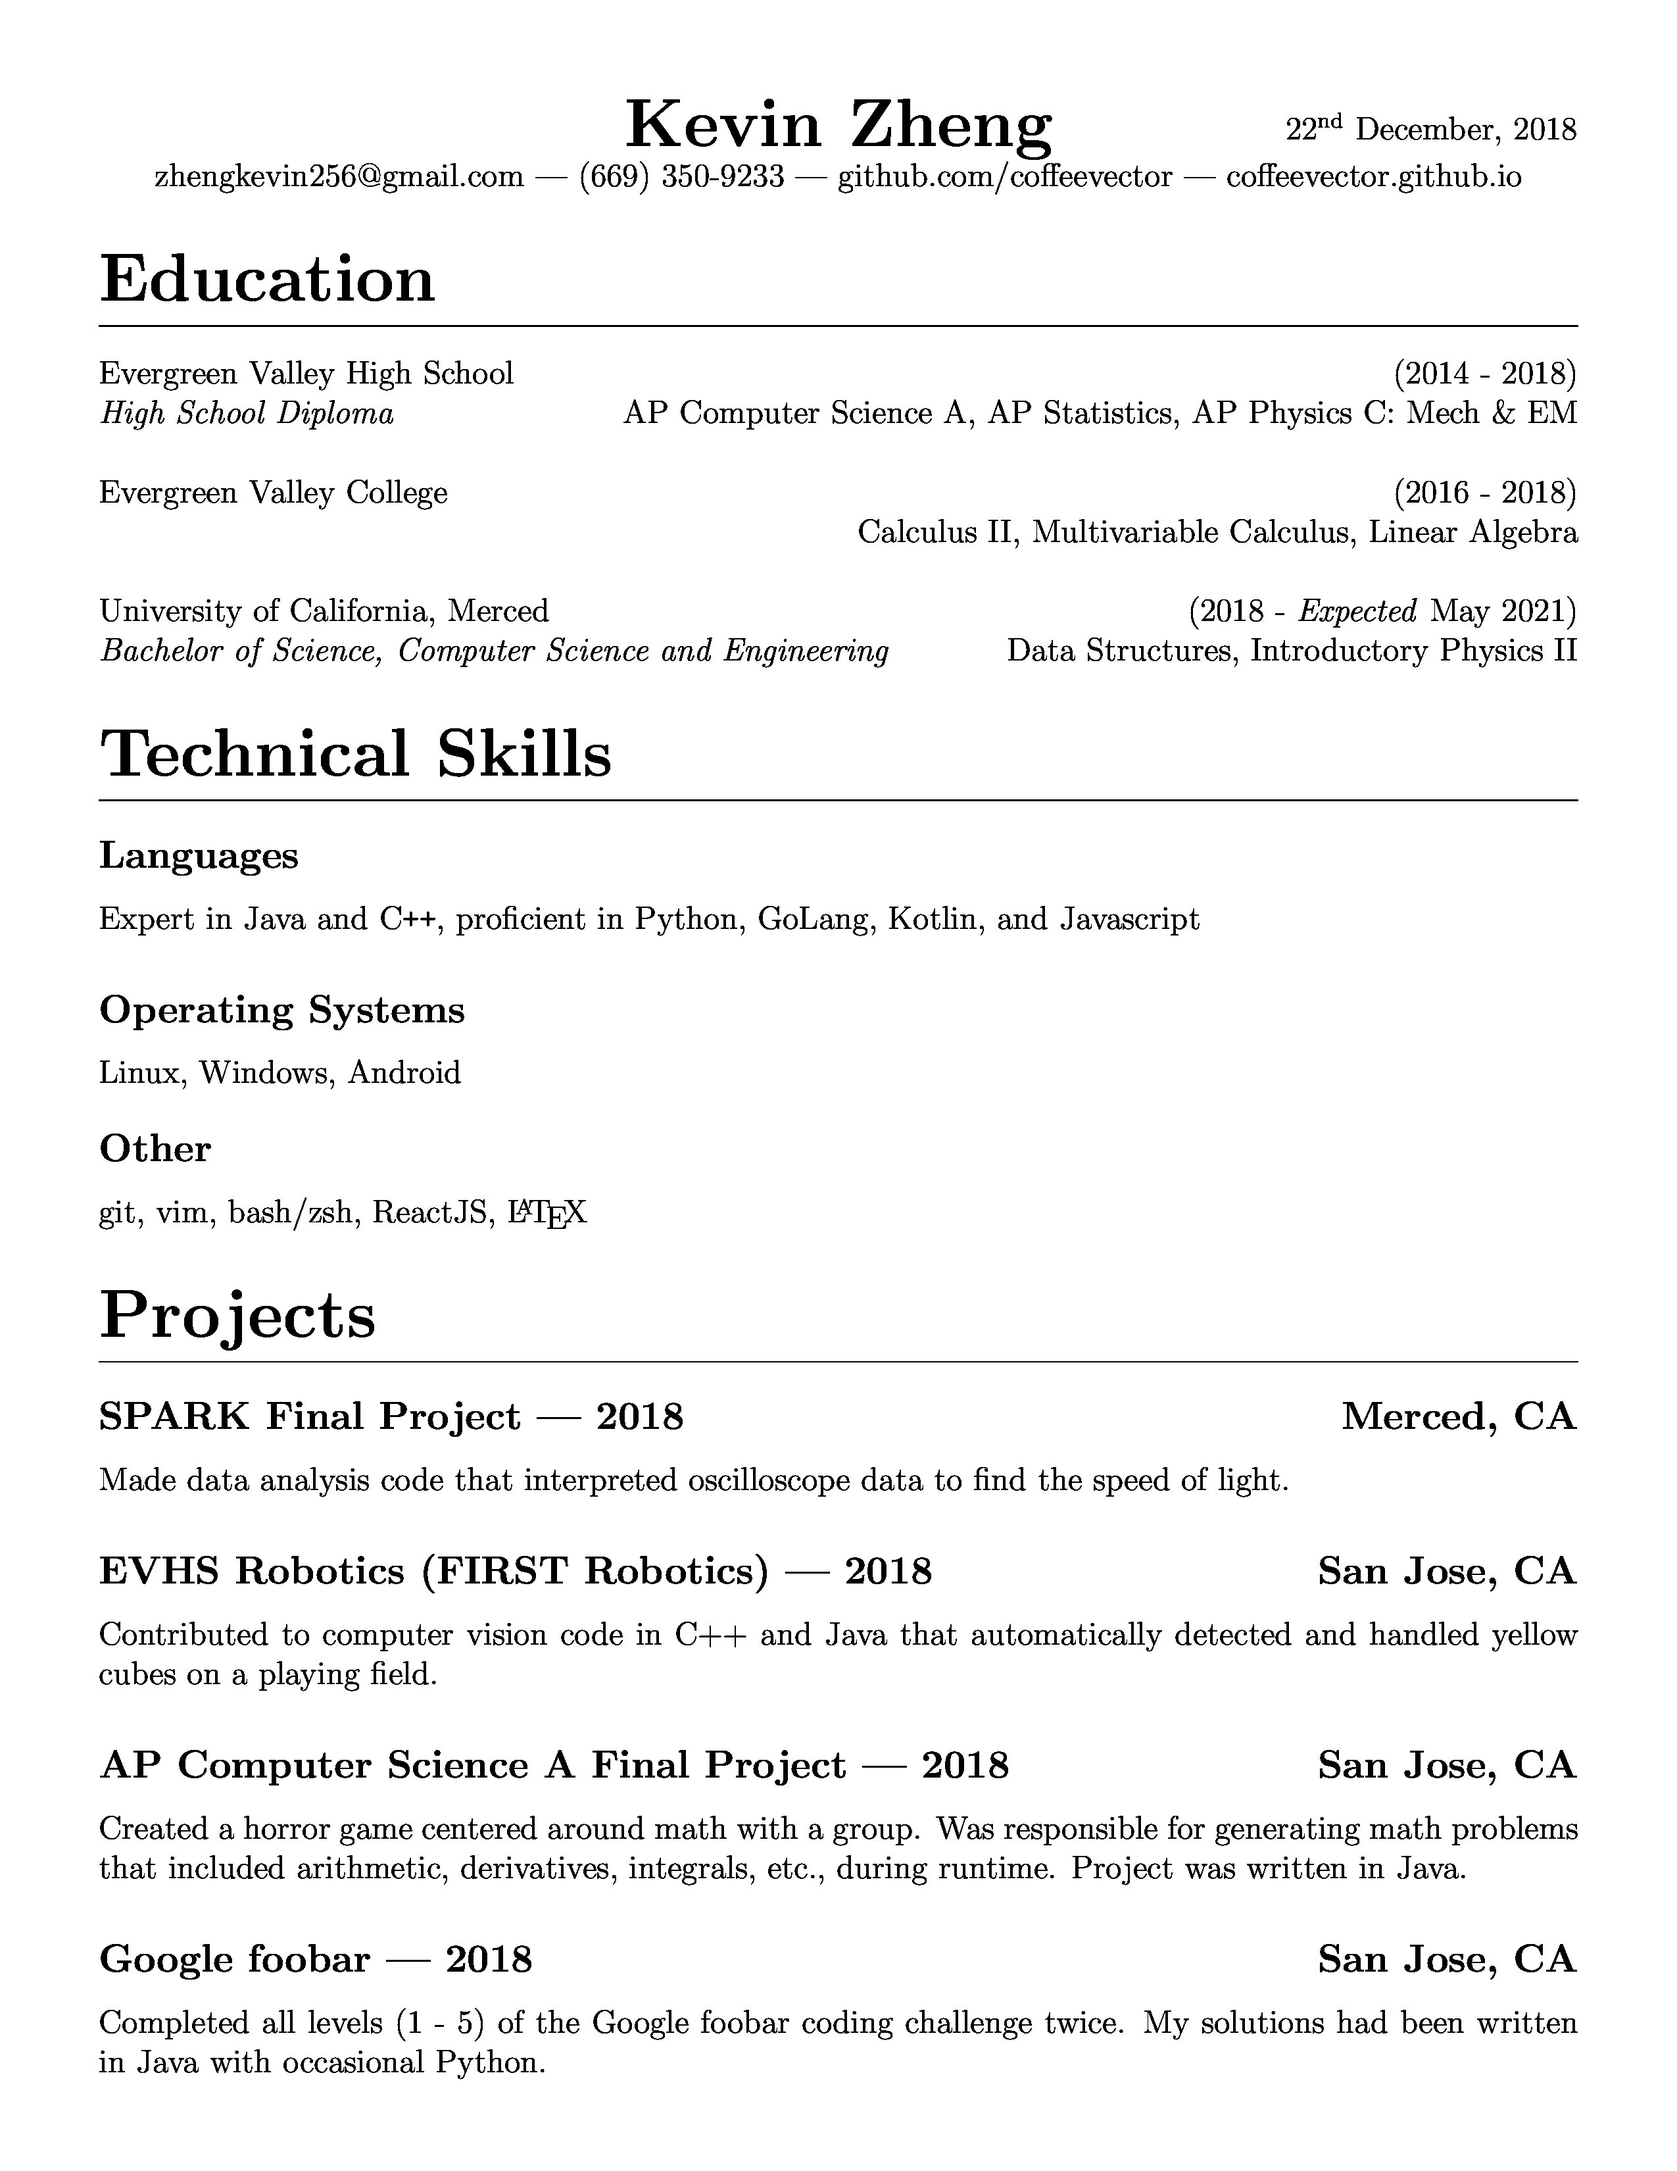
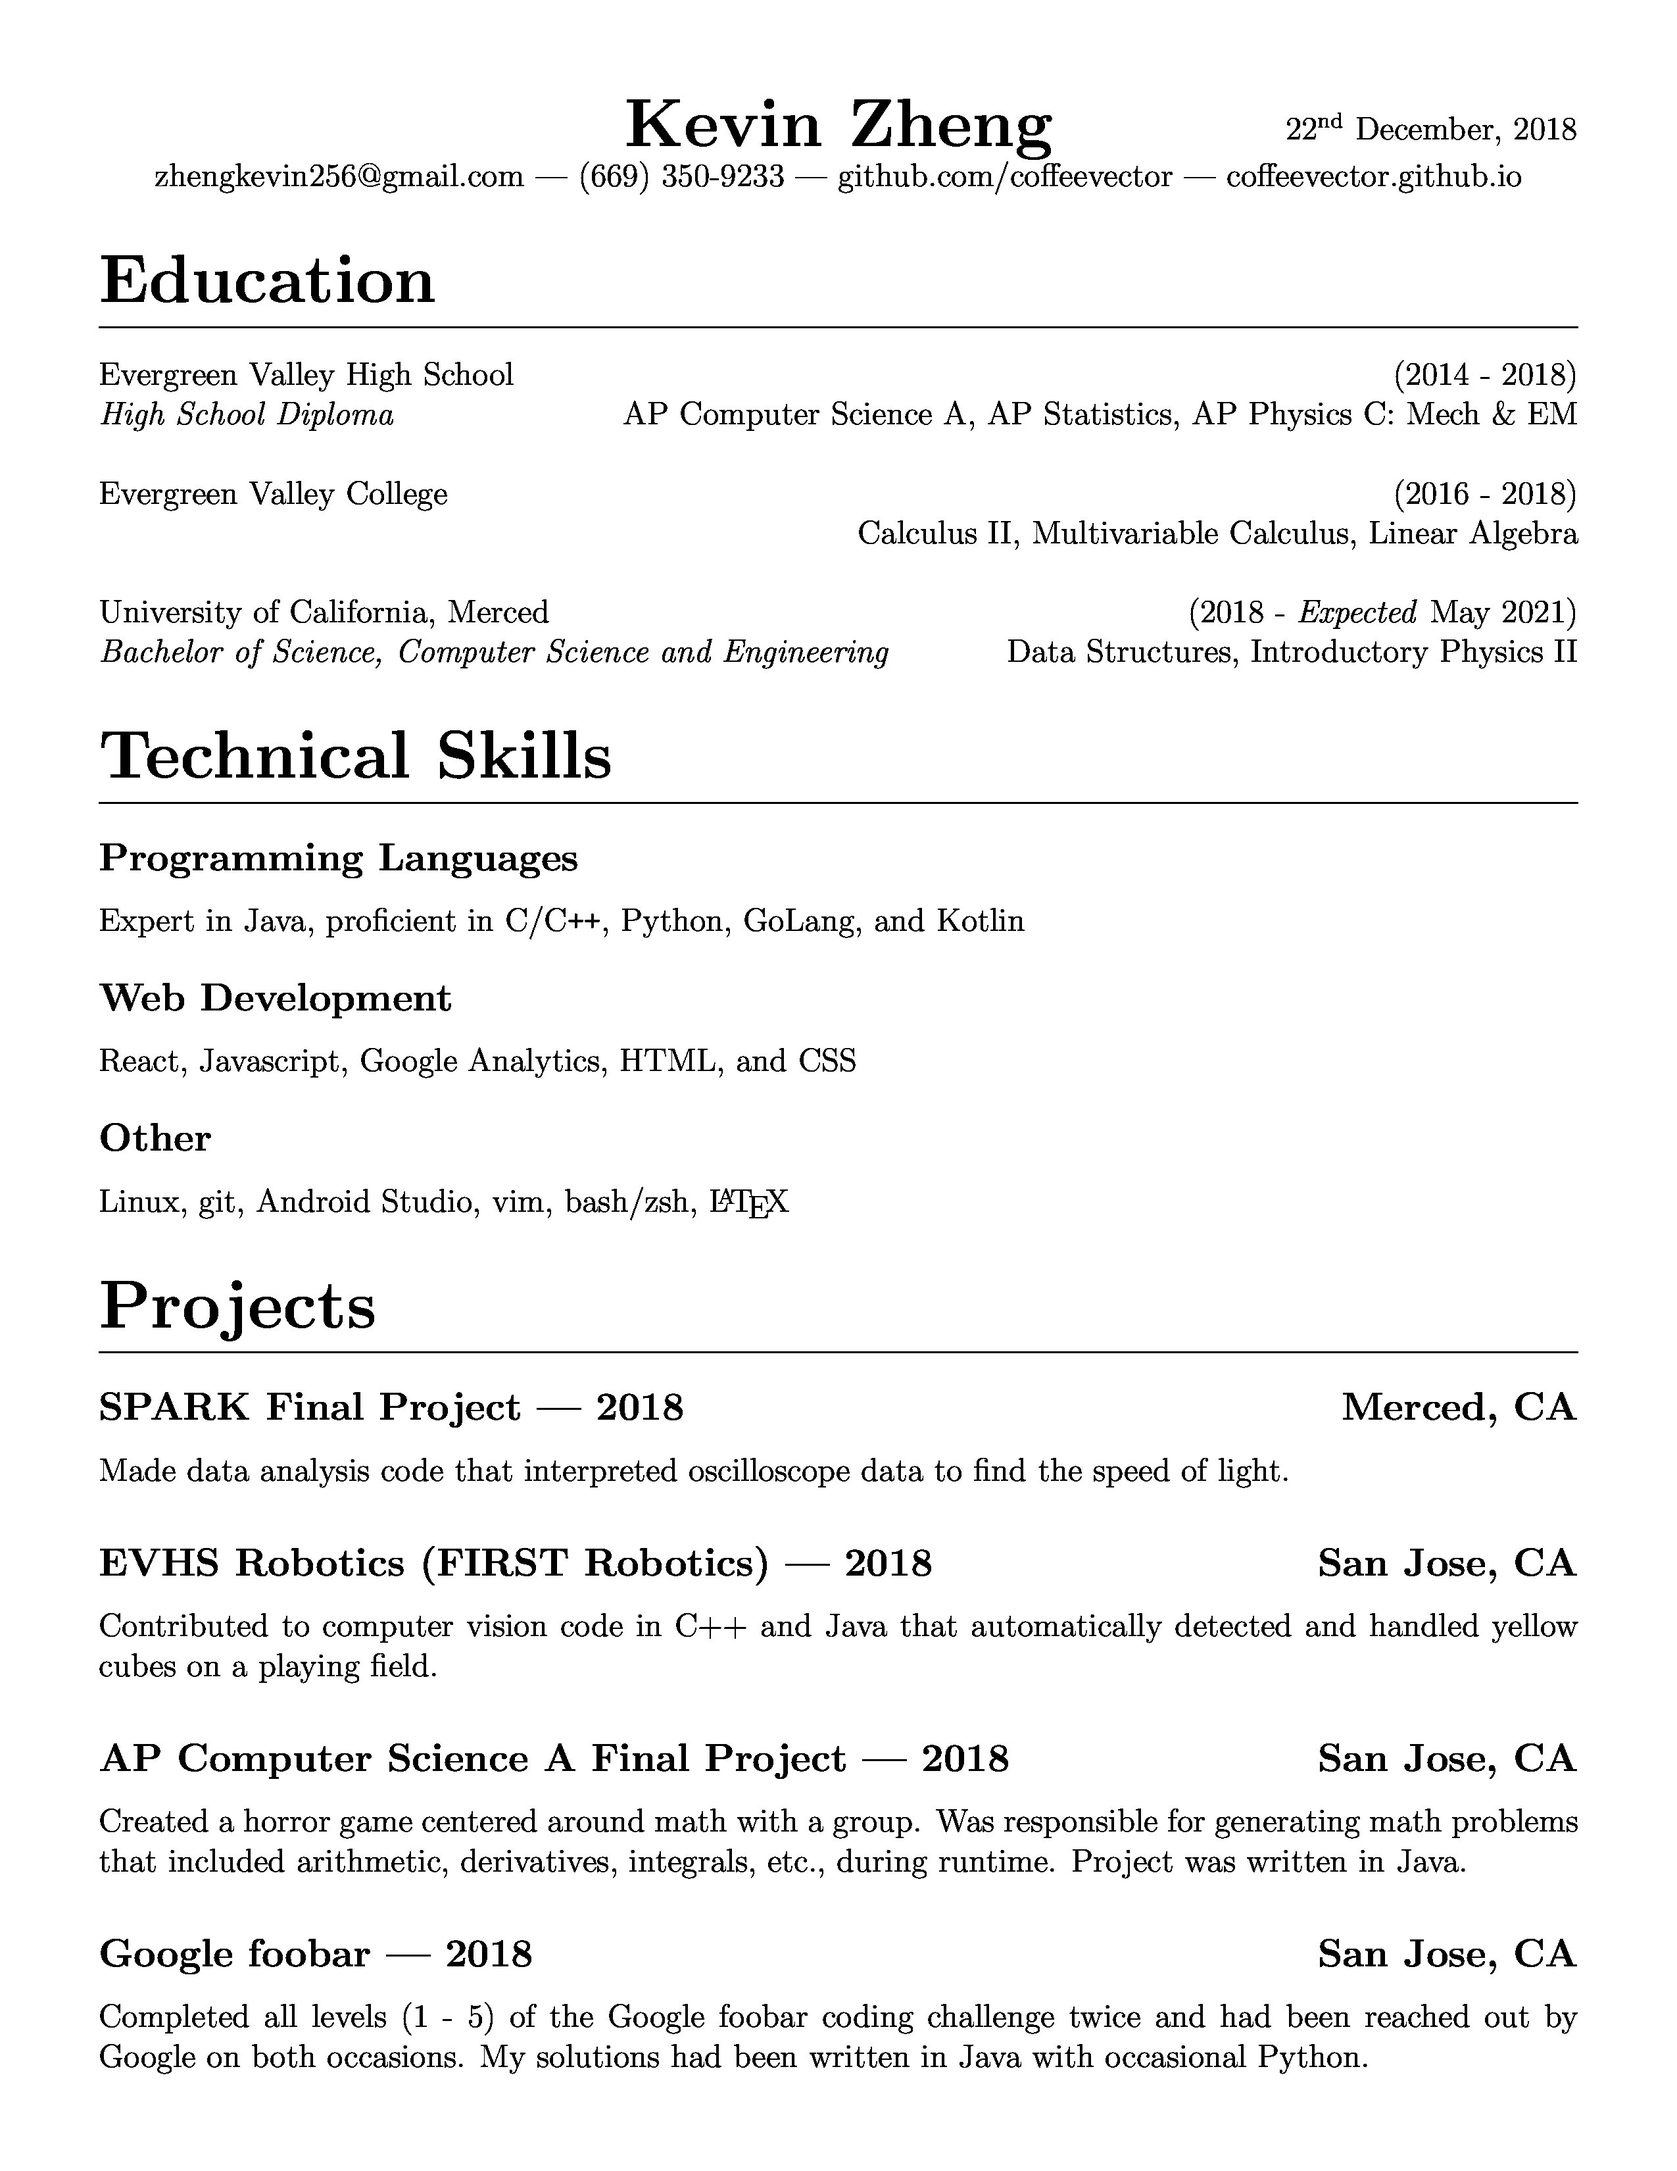
Made Web Development subsection

diff --git a/Resume.tex b/Resume.tex
@@ -1,5 +1,6 @@
 \documentclass[letterpaper,12pt]{article}
 \usepackage{multicol}
+\usepackage{vwcol}
 \usepackage{titlesec}
 \usepackage{titling}
 \usepackage[margin=0.5in]{geometry}
@@ -28,13 +29,14 @@ Evergreen Valley College\null\hfill (2016 - 2018)\\
 University of California, Merced\null\hfill(2018 - \emph{Expected} May 2021)\newline
 \emph{Bachelor of Science, Computer Science and Engineering}\null\hfill Data Structures, Introductory Physics II
 \section{Technical Skills}
-\subsection{Languages}
-Expert in Java and C\verb!++!, proficient in Python, GoLang, Kotlin, and Javascript
-\subsection{Operating Systems}
-Linux, Windows, Android
-\vspace*{-2mm}
-\subsection{Other}
-git, vim, bash/zsh, ReactJS, {\LaTeX}
+	\subsection{Programming Languages}
+	Expert in Java, proficient in C/C\verb!++!, Python, GoLang, and Kotlin
+	\vspace*{-2mm}
+	\subsection{Web Development}
+	React, Javascript, Google Analytics, HTML, and CSS
+	\vspace*{-2mm}
+	\subsection{Other}
+	Linux, git, Android Studio, vim, bash/zsh, {\LaTeX}
 \section{Projects}
 	\subsection{SPARK Final Project --- 2018 \null\hfill Merced, CA}
 	\par Made data analysis code that interpreted oscilloscope data to find the speed of light.
@@ -43,6 +45,6 @@ git, vim, bash/zsh, ReactJS, {\LaTeX}
 	\subsection{AP Computer Science A Final Project --- 2018 \null\hfill San Jose, CA}
 	\par Created a horror game centered around math with a group. Was responsible for generating math problems that included arithmetic, derivatives, integrals, etc., during runtime. Project was written in Java.
 	\subsection{Google foobar --- 2018 \null\hfill San Jose, CA}
-	\par Completed all levels (1 - 5) of the Google foobar coding challenge twice.
+	\par Completed all levels (1 - 5) of the Google foobar coding challenge twice and had been reached out by Google on both occasions.
 	My solutions had been written in Java with occasional Python.
 \end{document}
